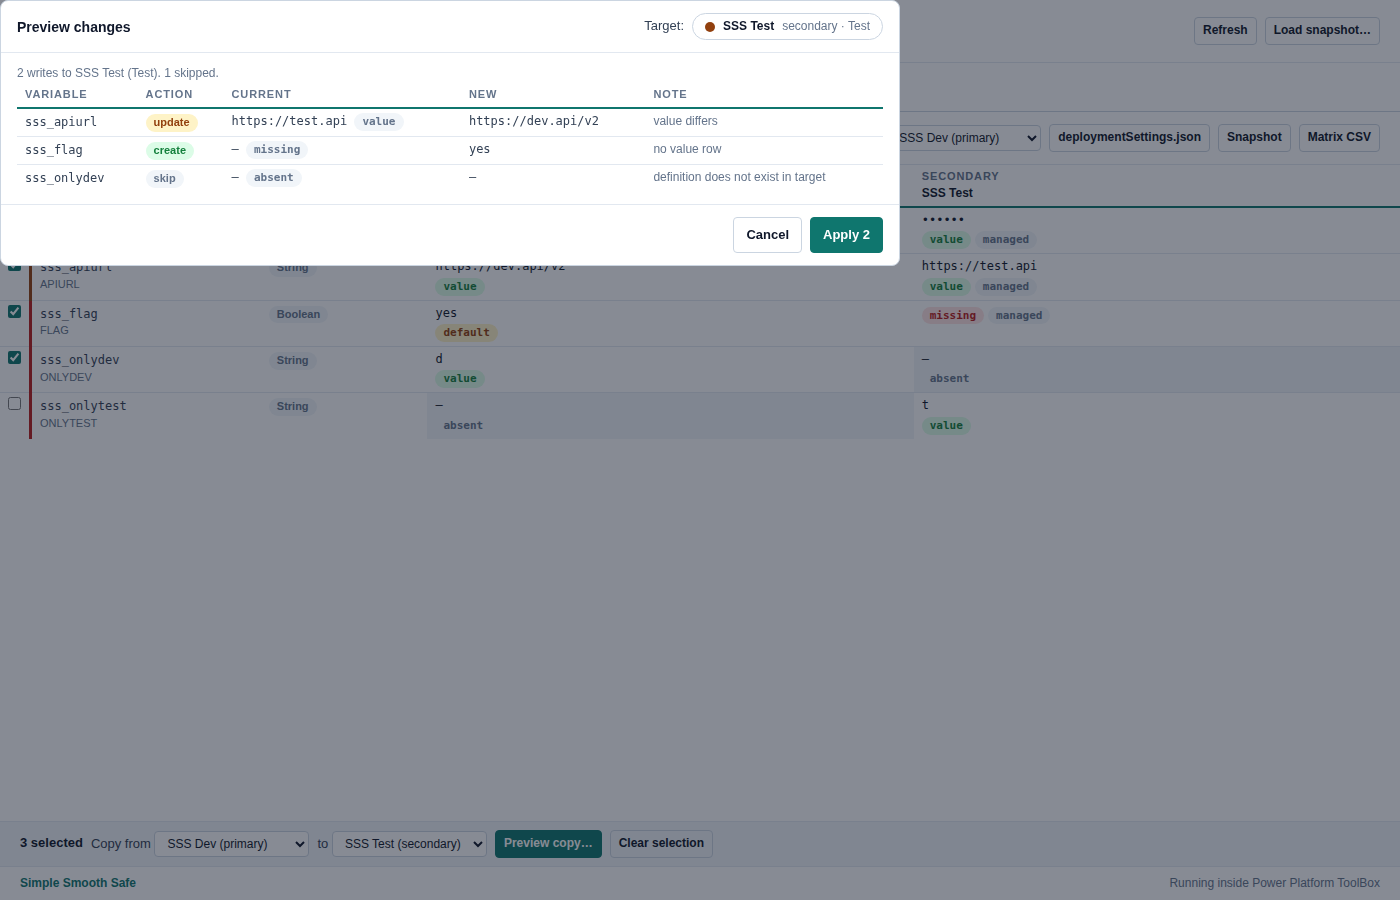
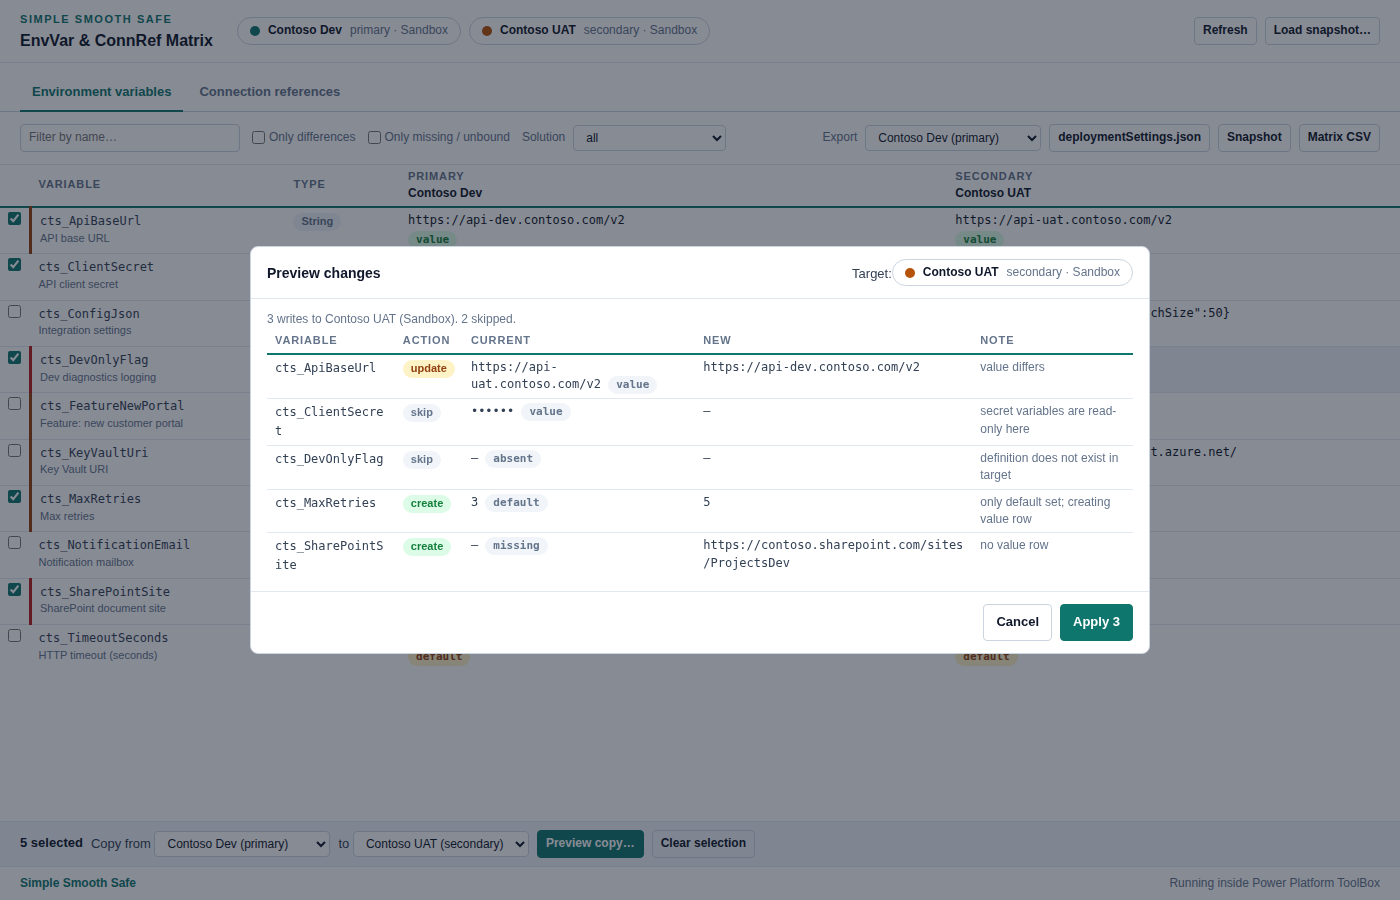
fix(envvar-matrix): mask secrets in write preview, centre dialogs; sandbox-style screenshots
- Write plan masks current/new values of Secret variables, so the preview never shows them
- dialog gets margin:auto (the global reset removed native centring); same fix in dependency-cleaner
- scripts/screenshots.mjs renders the four README images from the real UI with fictional Contoso data
- e2e 49 -> 51 assertions (both new ones fail on the old code)

Claude-Session: https://claude.ai/code/session_01QuxV2idE7EGUKF1dVCMkHh

diff --git a/tools/dependency-cleaner/src/styles.css b/tools/dependency-cleaner/src/styles.css
@@ -53,7 +53,7 @@ pre.diff .ctx { display: block; }
 .danger-banner { border-left: 3px solid var(--status-bad-fg); background: var(--status-bad-bg); color: var(--status-bad-fg); padding: var(--s-2) var(--s-3); border-radius: var(--radius-sm); font-weight: var(--fw-bold); }
 .dropzone { margin-top: var(--s-4) !important; display: flex; flex-direction: column; gap: var(--s-2); align-items: center; }
 
-dialog { border: 1px solid var(--border-color); border-radius: var(--radius-md); background: var(--bg-card); color: var(--fg-body); padding: 0; max-width: min(760px, 92vw); width: 100%; font-family: var(--font-sans); font-size: var(--fs-body); }
+dialog { border: 1px solid var(--border-color); border-radius: var(--radius-md); background: var(--bg-card); color: var(--fg-body); margin: auto; padding: 0; max-width: min(760px, 92vw); width: 100%; font-family: var(--font-sans); font-size: var(--fs-body); }
 dialog::backdrop { background: rgba(15, 23, 42, 0.5); }
 dialog .dlg-head { display: flex; align-items: center; gap: var(--s-2); padding: var(--s-3) var(--s-4); border-bottom: 1px solid var(--border-subtle); }
 dialog .dlg-body { padding: var(--s-3) var(--s-4); max-height: 60vh; overflow: auto; }

diff --git a/tools/envvar-matrix/src/matrix/write.ts b/tools/envvar-matrix/src/matrix/write.ts
@@ -54,11 +54,12 @@ function planOne(row: EnvVarRow, targetKey: string, src: PlanSource): PlannedWri
   const warnings: string[] = [];
   if (rec?.valueId && rec.valueIsManaged) warnings.push("value row is managed; updating it adds an unmanaged layer on top");
   if ((rec?.valueCount ?? 0) > 1) warnings.push(`target has ${rec!.valueCount} value rows for this definition; only one is updated`);
+  const mask = (v: string | null | undefined): string | null => (v == null ? null : row.isSecret ? "••••••" : v);
   const base = {
     schemaName: row.schemaName,
-    currentValue: cell?.effective ?? null,
+    currentValue: mask(cell?.effective),
     currentSource: cell?.source ?? "absent",
-    newValue,
+    newValue: row.isSecret ? mask(newValue) : newValue,
     definitionId: rec?.definitionId ?? null,
     valueId: rec?.valueId ?? null,
   };

diff --git a/tools/envvar-matrix/src/styles.css b/tools/envvar-matrix/src/styles.css
@@ -54,7 +54,7 @@ table.matrix input[type="checkbox"] { accent-color: var(--accent); }
 
 dialog {
   border: 1px solid var(--border-color); border-radius: var(--radius-md); background: var(--bg-card); color: var(--fg-body);
-  padding: 0; max-width: min(900px, 92vw); width: 100%; font-family: var(--font-sans); font-size: var(--fs-body);
+  margin: auto; padding: 0; max-width: min(900px, 92vw); width: 100%; font-family: var(--font-sans); font-size: var(--fs-body);
 }
 dialog::backdrop { background: rgba(15, 23, 42, 0.5); }
 dialog .dlg-head { display: flex; align-items: center; gap: var(--s-2); padding: var(--s-3) var(--s-4); border-bottom: 1px solid var(--border-subtle); }

diff --git a/tools/envvar-matrix/README.md b/tools/envvar-matrix/README.md
@@ -15,7 +15,7 @@ Built by [Simple Smooth Safe](https://simplesmoothsafe.com).
 
 ## Screenshots
 
-Synthetic sample data. Replace with real captures before publishing.
+Rendered from the tool against a mocked host with fictional sample data (Contoso Dev / UAT sandboxes). Regenerate with `npm run build && npm run screenshots`.
 
 ![Environment variables matrix](https://raw.githubusercontent.com/sss-dclemente/sss-pptb/main/tools/envvar-matrix/docs/img/envvars.png)
 
